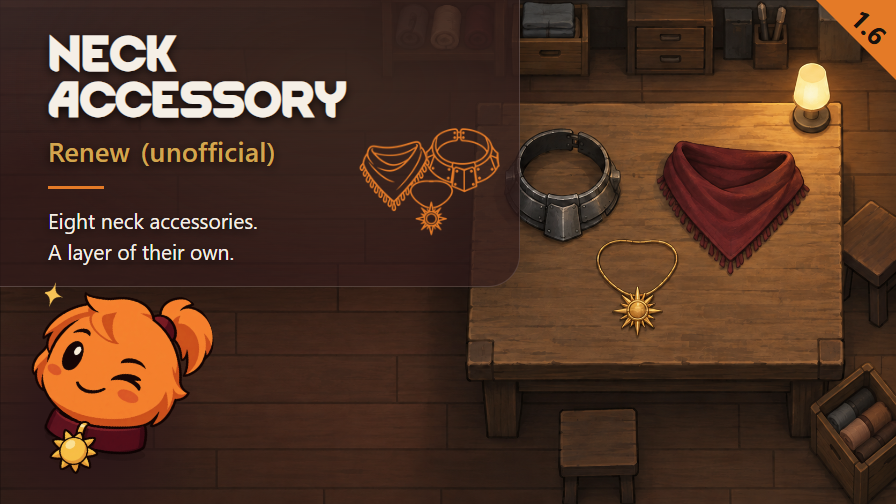
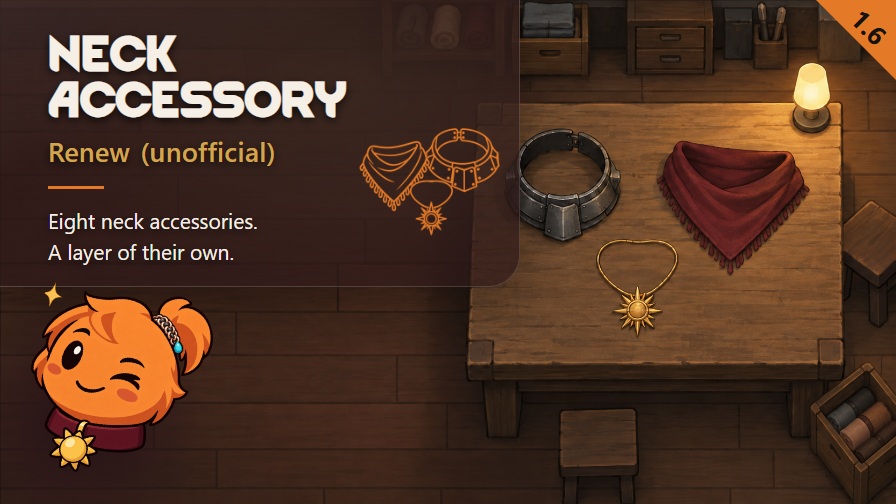
Audit 2026-10-13: workflow_stage makeSources, build/ back, echo-source rename, Preview re-rendered, 0.1.0 changelog

diff --git a/STATUS.md b/STATUS.md
@@ -5,10 +5,10 @@ translation_fr: partial
 mod:          Neck Accessory Renew (unofficial)
 packageId:    nelim.neckaccessory
 repo:         Rimworld-Neck-Accessory
+remote:       https://github.com/vbardales/Rimworld-Neck-Accessory.git
 visibility:   public
 detached:     yes
-stage:        done
-workflow_stage: l10n
+workflow_stage: makeSources
 settings_audit: not_applicable
 licence:      silent
 licence_at:   ATTRIBUTION.md, upstream review 2026-09-13
@@ -17,17 +17,48 @@ upstream_mod_remotes:
 dependencies: none
 showcase:     partial
 tested_on:
-workshop:
+workshop:     3811292051   # private item, prepublished 0.1.0 on 2026-10-01
 remaining:
+  - "2026-10-13: defect: Art/Preview-source.png mean value (Vmean) is 0.272, under the 0.30 floor of AUDIT.md 2.e; the source is the owner's, a session does not touch it (owner decision: re-supply a lighter source, or accept)"
+  - "2026-10-13: defect: Mod/About/ModIcon.png is the necklace-only icon (14.9 KB, identical to Art/ModIcon-before-mascot.png), older than Art/ModIcon-source.png (the mascot, 2026-10-04) and under the 20-30 KB range; the Preview badge already shows the mascot (owner decision: regenerate the icon from the source, or keep the necklace)"
   - unverified: French review by Virginie (FRENCH_REVIEW.md, revision named there)
   - unverified: whether the sunlight objects are exposed in any game UI (mouse-over, inspect)
   - unverified: the Pickle suite (Tests/Pickle, 15 scenarios + 8-piece outline) has never been played; two passes, English and French, are the criteria of done -> tested
   - unverified: which stage the hero scarf gives the Disfigured thought (no scenario, see TESTING.md)
   - unverified: in-game EN/FR UI, logs, new game and existing save
   - unverified: current upstream permission and supported-version evidence (Steam page 1611488293 not rechecked)
+  - unverified: Check-Translations WARN, ThoughtDef/Disfigured.stages.proof_of_hero.label has a French injection outside the text inventory (a stage added by a patch); the earlier audit found the path valid
+  - unverified: social preview not uploaded to GitHub after the Preview was re-rendered on 2026-10-13 (social_preview_sha256 absent; web step, belongs to mountPreview)
 session:      maj:        2026-09-12, releve automatique
-updated:      2026-09-29, tests written
+updated:      2026-10-13, audit
+protocols_read_sha: 1c29185197559138361bf6c58c9f41594c3f1a47
 ---
+
+## Audit — 2026-10-13
+
+Previous state: `l10n` (old vocabulary, stage `done`). Retained: `workflow_stage: makeSources`. Revision audited: `477dbb5`
+plus the local changes committed with this audit. The chain is replayed against the current protocols (AUDIT.md section 16);
+independent validations of later states are kept and listed. No game was launched.
+
+| Transition | Result |
+| --- | --- |
+| setupRepo -> makeSources | Passed: standalone repository `vbardales/Rimworld-Neck-Accessory` (public), README, ATTRIBUTION, LICENSE, CHANGELOG, `remote` field added, `(unofficial)` suffix and UNOFFICIAL paragraph present, `upstream_mod_remotes: N/A`. Upstream permission not rechecked live. |
+| makeSources -> code | **Blocked.** 2.a: `Art/ModIcon-source.png` (the mascot) and `Art/Preview-source.png` are present. 2.b/2.c: `Mod/About/ModIcon.png` is stale (still the necklace-only icon, 14.9 KB, outside 20-30 KB), see `remaining`. 2.e: `Measure-Palette.sh` on the source gives 1 hue family but Vmean 0.272 (< 0.30). The object is identifiable, no readable face, nothing standing upright (looked at). 2.d: no `PROMPT_*.md`. 2.f: `Art/echo-preview.png` renamed `echo-source.png` and the config points at it (the config named a missing `echo.png`); `ModIcon-before-mascot.png` kept until the icon decision. |
+| code -> declareDependencies | Passed: `Build-Mod.ps1 -Check` 0 warnings, 0 errors, `Mod/Assemblies/NeckAccessory.dll` and the Pickle steps DLL SAME as the sources. `CHANGELOG.md` heading is now `## [Unreleased]`, with a `[0.1.0] - 2026-10-01` entry (the item `3811292051` exists, `PublishedFileId.txt` is committed). No `feature` left in `remaining`. |
+| declareDependencies -> settings | Passed on the 2026-09-13 audit, re-checked today: no Harmony, no mod reference in `Source/`, `Mod/Defs`, `Mod/Patches`; `About.xml` has no `modDependencies`, `loadAfter` lists vanilla and the DLCs, no `LoadFolders.xml`. |
+| settings -> localize | Passed: `settings_audit: not_applicable`; today's search of `Source/`, `Mod/Defs`, `Mod/Patches` finds no ModSettings, SettingsCategory or MainButton, so no empty page and no shortcut. |
+| localize -> writeTests | Passed: `Check-DefInjected.ps1` 148 keys, 0 errors; `Check-Translations.ps1` PASS, 59 source texts, with one WARN (see `remaining`). No text or Def changed since `4796eae`, so the 2026-09-30 reading for gender agreement and `FRENCH_REVIEW.md` still describe the shipped French; that reading was not redone today. |
+| writeTests -> playTests | Blocked by 7.g: `translation_fr` is `partial` until Virginie reviews the French. Otherwise: `Tests/Test-Mod.ps1` rerun, 25 passed, 0 failed (it moved from `_tools/`); scenarios and the pass matrix are in `TESTING.md` (not named `TEST_SCENARIOS.md`); the Pickle suite is written, not played; the `LOCAL_SCRIPTS.md` row follows the move. |
+| later states | Not reached. |
+
+Changes made by this audit: the mod root is clean (`_tools/` moved to `Tests/`, the generator copy replaced by the shared
+`scripts/Make-FrenchReview.ps1`, `build/` back as the build folder through `Directory.Build.props`, `Art/Preview-original.png`
+and the gallery duplicate `00-preview.png` deleted); `Mod/About/About.xml` no longer names a RimWorld version in its description and
+the `<author>` line uses `Udon - 1.6 adapted by Nelim`; the Preview was re-rendered (`node ../scripts/Render-Preview.cjs`, 896x504,
+535,556 bytes, looked at) with its `Art/Gallery/0-preview.png` copy. The older "decision" paragraphs below stay as history and are
+replaced by this one. `tested_1_7` is absent (not a defect).
+
+Next work for the next transition only: the owner decides the two `defect` lines above (the Preview source brightness, the icon).
 
 ## Audit — 2026-09-29
 

diff --git a/art-README.md b/art-README.md
@@ -1,17 +1,15 @@
 # Artwork
 
-The reproducible Preview sources are `Preview-source.png`, `echo.png`,
-`ModIcon-source.png`, and `Preview.config.json`. From the repository root, run:
+The reproducible Preview sources are `Art/Preview-source.png`, `Art/echo-source.png`,
+`Art/ModIcon-source.png`, and `Art/Preview.config.json`. From the repository root, run:
 
 ```text
 node ../scripts/Render-Preview.cjs
 ```
 
-The shared renderer writes `Mod/About/Preview.png`, `Mod/About/ModIcon.png`,
-`Gallery/0-preview.png`, `Preview.ico`, and `ModIcon.ico`. Temporary checks live
-under `.render/` and are not publication assets.
+The shared renderer writes `Mod/About/Preview.png`, `Art/Gallery/0-preview.png`,
+`Art/Preview.ico`, and `Art/ModIcon.ico`. Temporary checks live under `Art/.render/` and
+are not publication assets. `Art/Gallery/` contains only uploadable images.
 
-`Preview-necklace-source.png`, `Preview-before-icon.png`,
-`Preview-before-renew.png`, `Preview-renew-source.png`,
-`ModIcon-before-mascot.png`, and `ModIcon-mascot-source.png` retain the earlier
-visual work and source history. `Gallery/` contains only uploadable images.
+`Art/ModIcon-before-mascot.png` keeps the necklace-only icon that `Mod/About/ModIcon.png`
+still ships, until the icon is regenerated from `Art/ModIcon-source.png`.

diff --git a/CHANGELOG.md b/CHANGELOG.md
@@ -4,7 +4,7 @@ Format inspired by [Keep a Changelog](https://keepachangelog.com/en/1.1.0/).
 This file serves the repository and the writing of Steam patch notes; RimWorld does not display it
 in game.
 
-## [1.0.0] — unreleased
+## [Unreleased]
 
 On release: create the `v1.0.0` tag and the matching GitHub release.
 
@@ -83,3 +83,7 @@ only stiff shoulders move at a noticeable rate.
 - Replace the old-name sprite preview with a tailoring-workshop scene and current title.
 - Verify the 896x504 PNG is below 1 MB and readable at thumbnail size.
 - Recheck and retain the preferred 128x128 ModIcon.
+
+## [0.1.0] - 2026-10-01
+
+Creation of a publishIdFile. The Workshop item was created (private) so that `Mod/About/PublishedFileId.txt` exists; the content sent was `Mod/` as it stood at that commit, nothing more.
